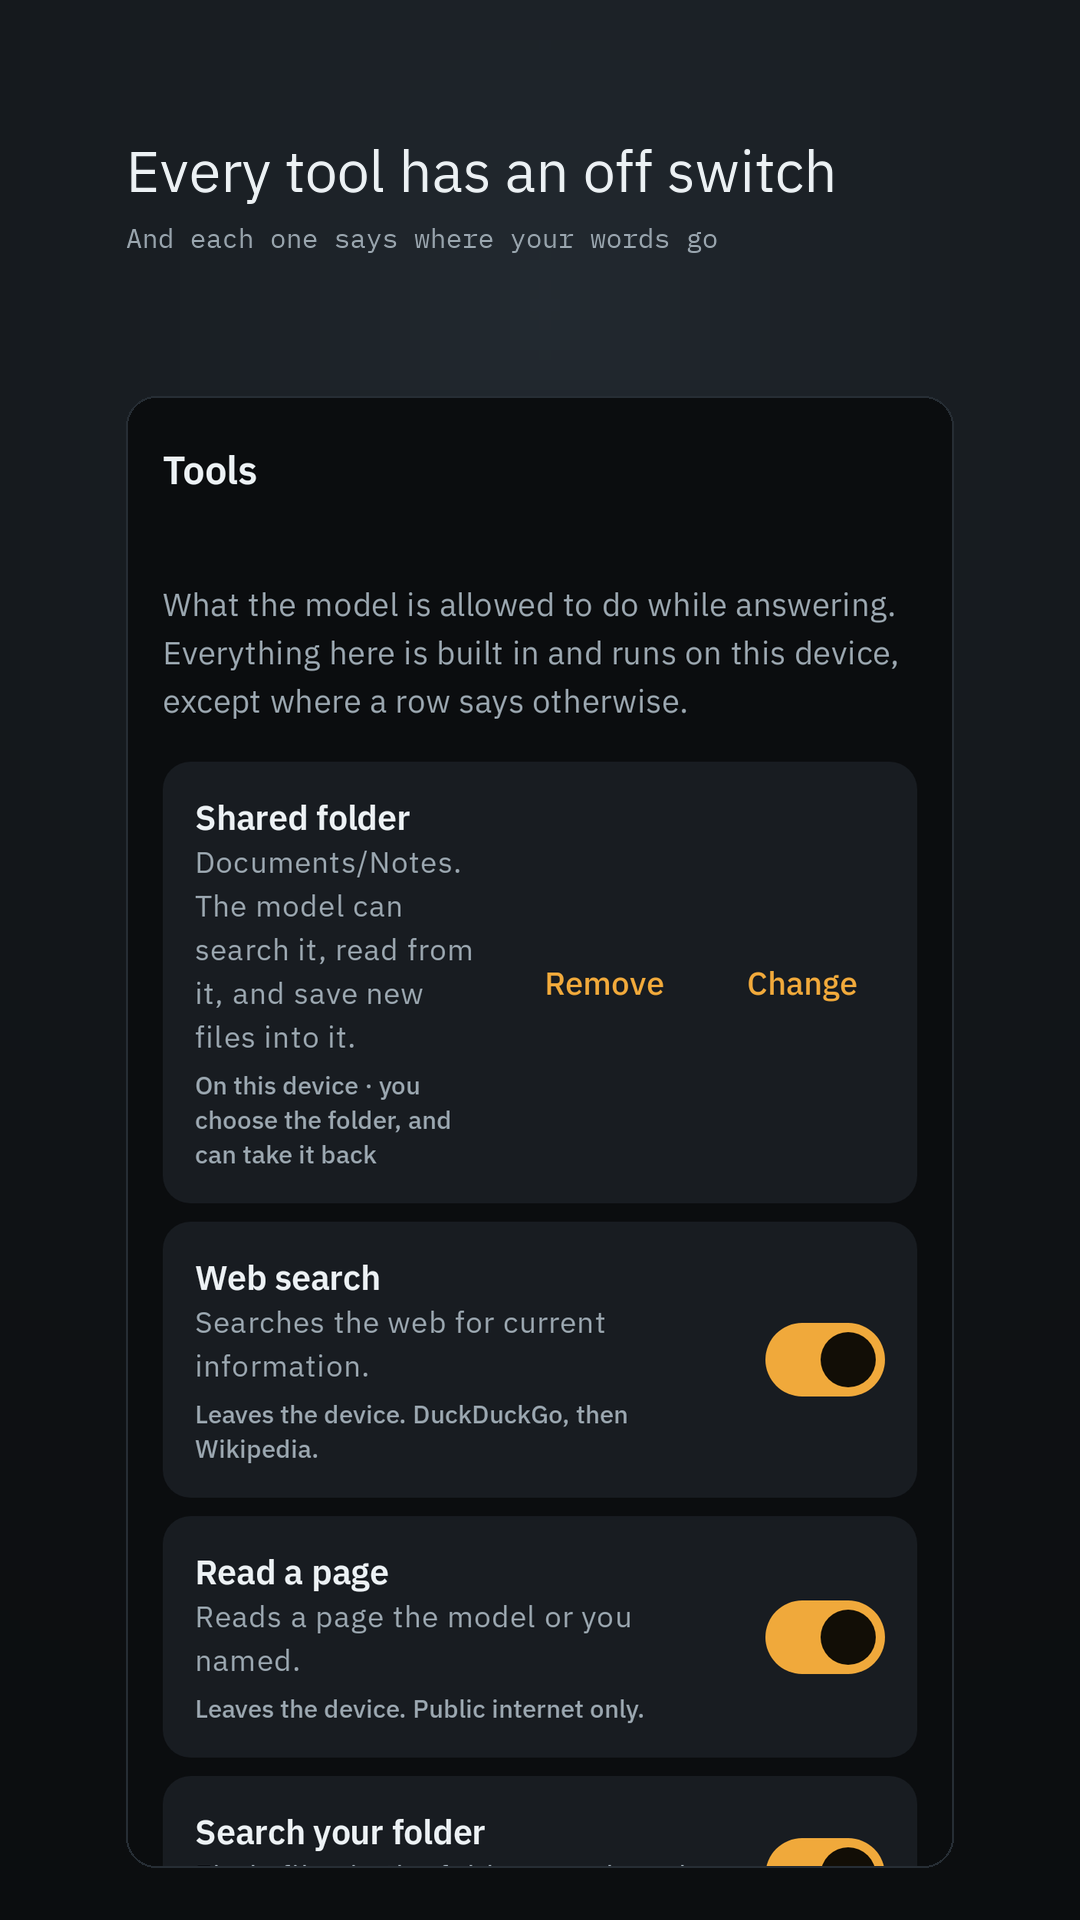
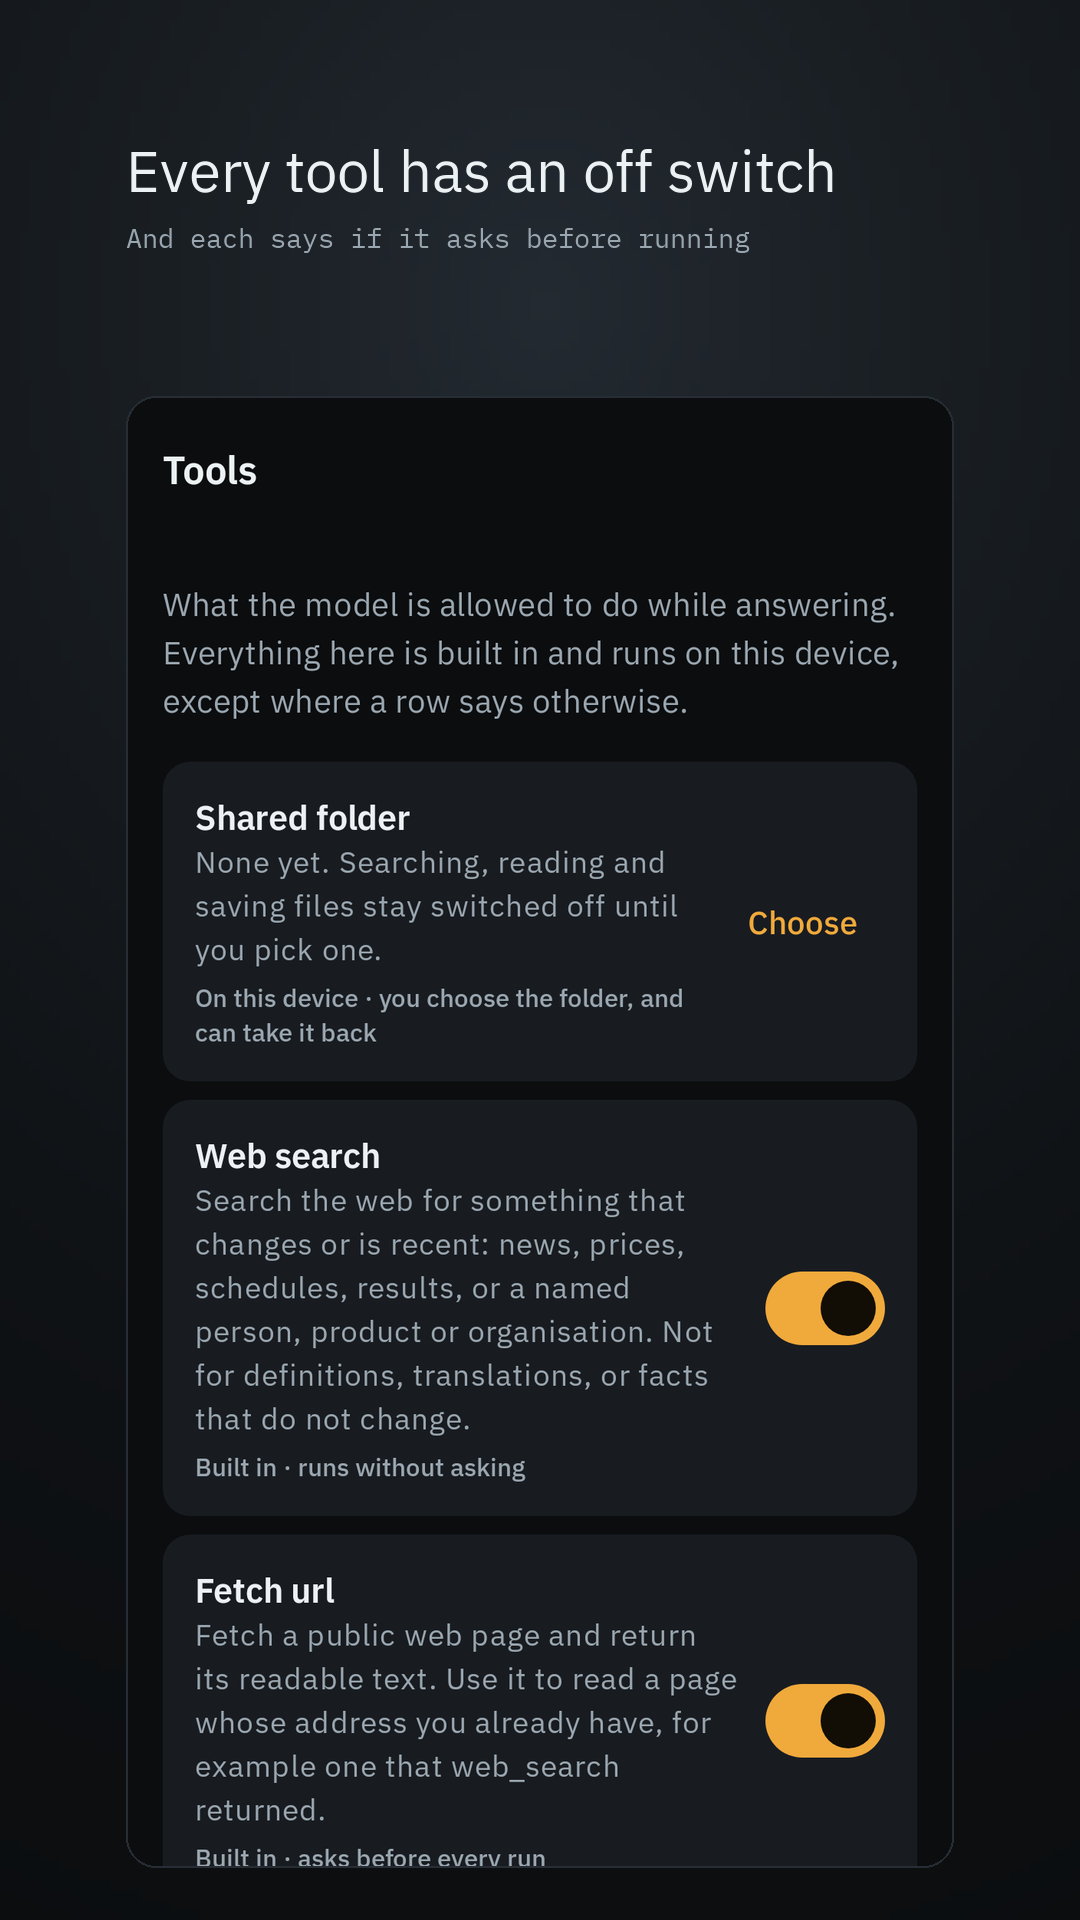
Show the Tools screen the app actually has
The tools screenshot was staged out of strings the screen has no way to
render. It invented friendly names where the real one derives them from the
definition, wrote provenance lines in place of the two sentences
ToolsViewModel picks between, and told the reader a search goes to
"DuckDuckGo, then Wikipedia".

Wikipedia is not a provider. It was taken out deliberately, and the reason is
in SearchSettings: it was a hardcoded site nobody could see or switch off,
and it dragged answers toward encyclopedia articles for questions about the
web. It is named nowhere in the privacy policy either, which lists DuckDuckGo
and nothing else. A store screenshot saying a third party receives the user's
queries when it receives none of them is the kind of inaccuracy Play treats
as misrepresentation, and it would have gone up contradicting our own policy
page.

Every string is now the string the screen produces: the name is the
definition's name with its underscore replaced and its first letter raised,
the description is the definition's own, and the provenance is whichever of
the two sentences alwaysAsk selects. Four rows, because four is what a first
run shows: isAvailable holds the file tools back until a folder is shared,
and advance and ask_user describe themselves only in plan mode.

The caption went with it. "Each one says where your words go" described the
invented lines; the real rows say whether a tool asks before it runs, which
[…]

diff --git a/app/src/test/kotlin/io/github/alpharomercoma/openweights/ui/ListingShots.kt b/app/src/test/kotlin/io/github/alpharomercoma/openweights/ui/ListingShots.kt
@@ -68,40 +68,67 @@ object ListingShots {
         onDownload = { _, _ -> },
     )
 
+    /**
+     * The Tools screen, with the rows the real one builds.
+     *
+     * Every string here is the string `ToolsViewModel.read` would produce: the name is the
+     * definition's name with its underscore replaced and its first letter raised, the
+     * description is the definition's own, and the provenance is one of exactly two
+     * sentences chosen by `alwaysAsk`. That is a rule rather than a preference, and the
+     * first version of this file broke it in a way worth writing down: it invented friendly
+     * names, wrote provenance lines the screen has no way to render, and told the reader
+     * that a search goes to "DuckDuckGo, then Wikipedia". Wikipedia was removed as a
+     * provider deliberately, it is named nowhere in the privacy policy, and a store
+     * screenshot that says a third party receives the user's queries when it receives
+     * nothing is the kind of inaccuracy Play treats as misrepresentation.
+     *
+     * Four rows rather than the registry's eight, because four is what this screen shows
+     * with no folder shared and no plan open: `Tool.isAvailable` keeps the file tools out
+     * until there is a folder, and `advance` and `ask_user` describe themselves only inside
+     * plan mode. The shot is of a first run, which is the state a person reading a store
+     * listing is about to be in.
+     */
     @Composable
     fun tools() = ToolsScreen(
         state = ToolsUiState(
             tools = listOf(
                 tool(
                     "web_search",
-                    "Web search",
-                    "Searches the web for current information.",
-                    "Leaves the device. DuckDuckGo, then Wikipedia.",
+                    "Search the web for something that changes or is recent: news, " +
+                        "prices, schedules, results, or a named person, product or " +
+                        "organisation. Not for definitions, translations, or facts that " +
+                        "do not change.",
+                    asks = false,
                     enabled = true,
                 ),
                 tool(
                     "fetch_url",
-                    "Read a page",
-                    "Reads a page the model or you named.",
-                    "Leaves the device. Public internet only.",
-                    enabled = true,
-                ),
-                tool(
-                    "search_files",
-                    "Search your folder",
-                    "Finds files in the folder you shared.",
-                    "On device. Never leaves the phone.",
+                    "Fetch a public web page and return its readable text. Use it to read " +
+                        "a page whose address you already have, for example one that " +
+                        "web_search returned.",
+                    // The one tool that asks every time, because the address is the model's
+                    // choice rather than the user's.
+                    asks = true,
                     enabled = true,
                 ),
                 tool(
                     "run_script",
-                    "Run a calculation",
-                    "Evaluates arithmetic the model writes.",
-                    "On device. No network, no filesystem.",
+                    "Write JavaScript and run it to work something out. Use it for sums, " +
+                        "dates and going through data rather than doing it in your head. " +
+                        "Return the answer, or leave it as the last expression. Name " +
+                        "files to read as inputs['x'].",
+                    asks = false,
+                    enabled = true,
+                ),
+                tool(
+                    "search_files",
+                    "Find files in the folder the user shared. Match names with a pattern " +
+                        "like *.md, and optionally give text to look for inside them.",
+                    asks = false,
                     enabled = false,
                 ),
             ),
-            workspace = WorkspaceSummary("Documents/Notes", GrantState.READ_WRITE),
+            workspace = WorkspaceSummary(null, GrantState.NONE),
         ),
         onToggle = { _, _ -> },
         onChooseFolder = {},
@@ -118,11 +145,17 @@ object ListingShots {
         pipelineTag = "text-generation",
     )
 
-    private fun tool(
-        id: String,
-        name: String,
-        description: String,
-        provenance: String,
-        enabled: Boolean,
-    ) = ToolSummary(id, name, description, provenance, enabled)
+    /** The same row `ToolsViewModel.read` builds, derived the same way from the name. */
+    private fun tool(id: String, description: String, asks: Boolean, enabled: Boolean) =
+        ToolSummary(
+            id = id,
+            name = id.replace('_', ' ').replaceFirstChar { it.uppercase() },
+            description = description,
+            provenance = if (asks) {
+                "Built in · asks before every run"
+            } else {
+                "Built in · runs without asking"
+            },
+            isEnabled = enabled,
+        )
 }

diff --git a/play/graphics/frame.py b/play/graphics/frame.py
@@ -32,7 +32,7 @@ CAPTIONS = [
     ("02-tools", "An assistant that can act", "Search the web, read a page, use your files"),
     ("03-plan", "Ask it to plan first", "It proposes the steps. You tick them off."),
     ("04-discover", "Any model, not a catalogue", "Search Hugging Face and run any GGUF"),
-    ("05-tools", "Every tool has an off switch", "And each one says where your words go"),
+    ("05-tools", "Every tool has an off switch", "And each says if it asks before running"),
 ]
 
 
